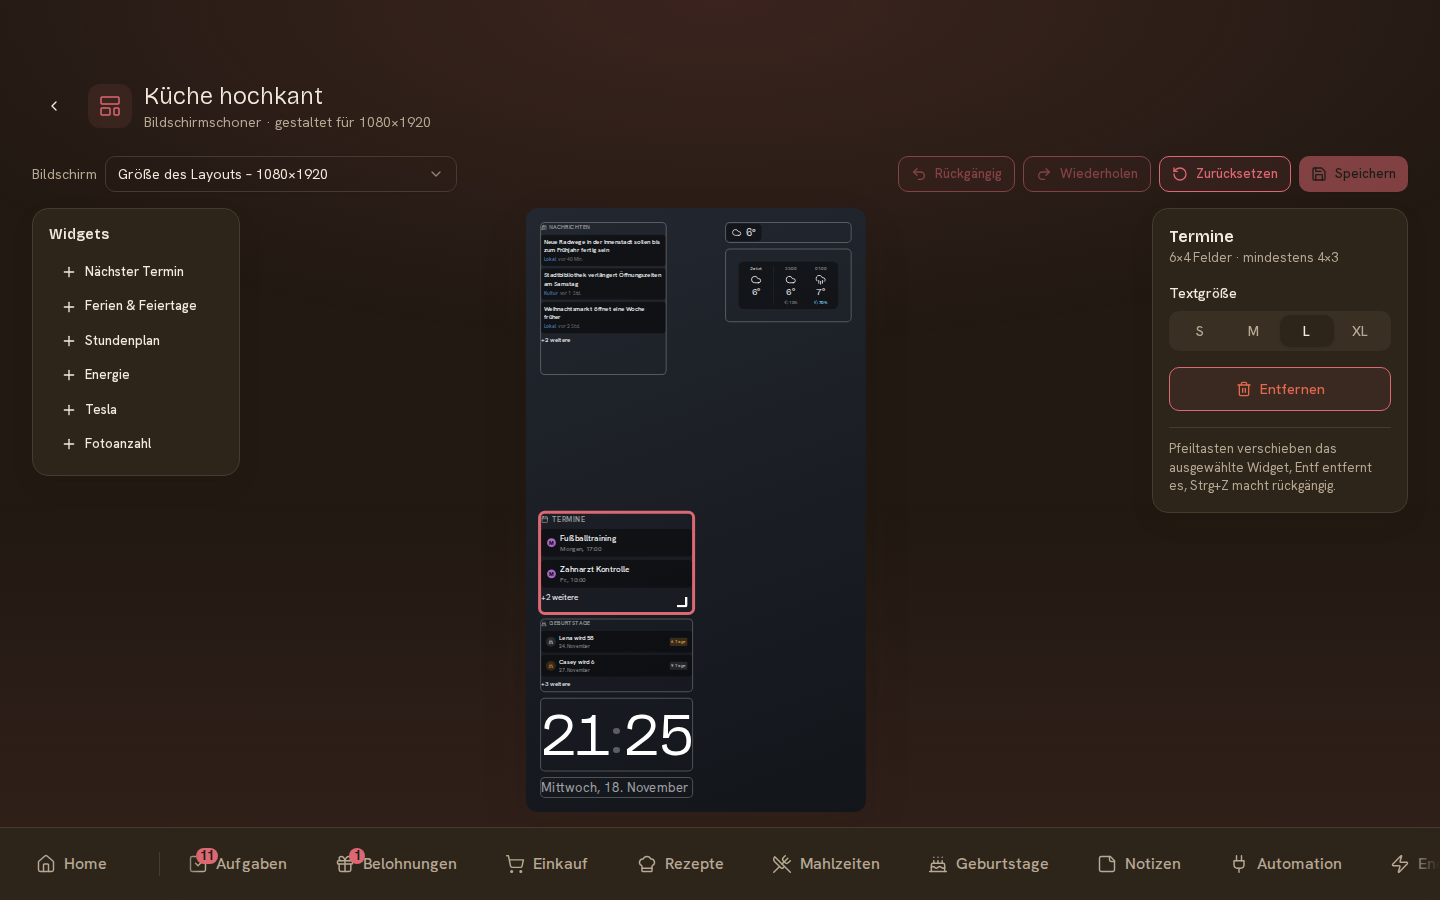
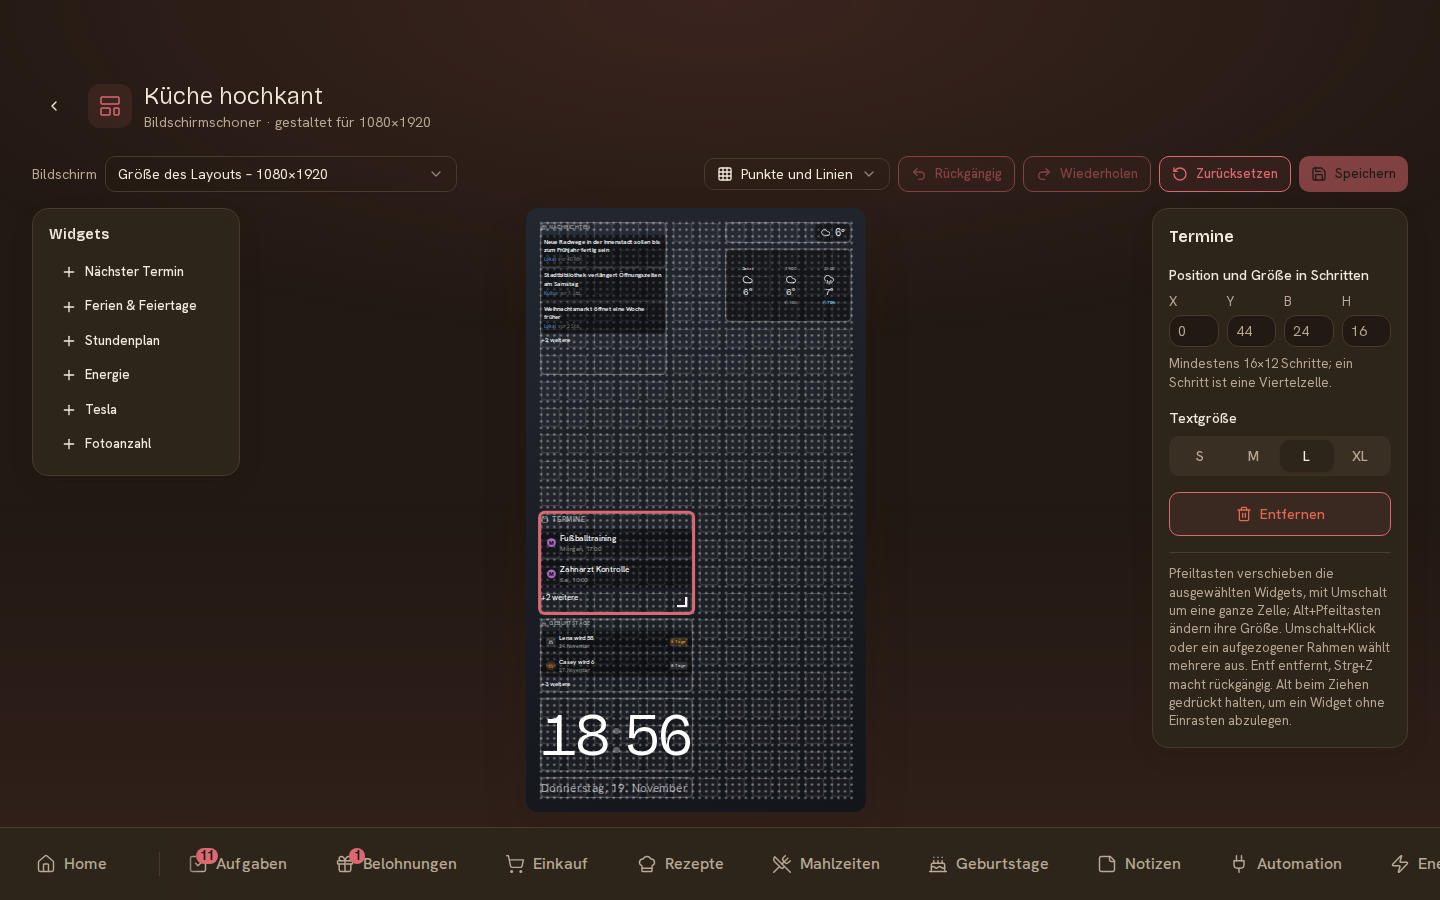
docs(wiki): new layout editor screenshots; energy and Tesla cards

diff --git a/docs/wiki/screenshots/playwright/12-layouts.kiosk.spec.ts b/docs/wiki/screenshots/playwright/12-layouts.kiosk.spec.ts
@@ -304,6 +304,24 @@ test("editor → layouts-editor.png", async ({ browser }) => {
   await page.context().close();
 });
 
+test("editor, three boxes selected → layouts-editor-arrange.png", async ({ browser }) => {
+  const page = await open(browser, laptop, `/settings/layouts/${kitchenLayout}`, DESK);
+  await expect(page.getByTestId("editor-canvas")).toBeVisible({ timeout: 60_000 });
+  await waitForReady(page);
+  // The grid as dots (the default, but a browser may remember another choice).
+  await page.getByTestId("editor-grid-display").click();
+  await page.getByTestId("editor-grid-display-dots").click();
+  // Shift+click adds a box to the selection, as a parent would pick them.
+  await page.locator("[data-editor-item=news]").click();
+  await page.locator("[data-editor-item=weatherNow]").click({ modifiers: ["Shift"] });
+  await page.locator("[data-editor-item=forecast]").click({ modifiers: ["Shift"] });
+  await expect(page.getByTestId("inspector-arrange")).toBeVisible();
+  await page.mouse.move(0, 0);
+  await page.waitForTimeout(1500);
+  await snap(page, "layouts-editor-arrange");
+  await page.context().close();
+});
+
 test("Settings → Layouts → settings-layouts.png", async ({ browser }) => {
   const page = await open(browser, laptop, "/settings/layouts", DESK);
   await expect(page.getByTestId("layouts-list")).toHaveAttribute("aria-busy", "false", { timeout: 60_000 });

diff --git a/docs/wiki/Layouts.md b/docs/wiki/Layouts.md
@@ -41,6 +41,8 @@ Unsaved changes survive the settings PIN locking in the middle of an edit. If so
 
 ### Tools
 
+![The layout editor with three boxes selected (news, weather now and the forecast): the grid shown as dots, and the inspector's Arrange buttons for aligning, distributing and matching sizes](images/layouts-editor-arrange.png)
+
 - **Grid** — the toolbar shows it as dots and lines, as lines, or not at all; the choice is remembered in this browser.
 - **Guides** — while you drag or resize, a box snaps within one step of another box's edge or centre, or of the screen's centre, and a line shows what it lined up with. Hold Alt (Option) while dragging to drop exactly where you let go.
 - **Several boxes** — Shift+click adds to the selection, or drag a frame on empty canvas. With several selected you can align left, right, top, bottom or centre, distribute horizontally or vertically (the outermost boxes stay), or give them the same width or height (as the first selected). Delete removes all of them.
@@ -63,7 +65,7 @@ After an update to Kinboard, reload screens and editors that were open: an edito
 
 - **Lists** (events, birthdays, holidays, news, lessons) show as many whole entries as fit and end with "+3 more" for the rest. A taller box shows more entries; the text stays at its size.
 - **Single values** (clock, date, next event, weather now, photo count) grow to fill their box.
-- **The forecast** shows as many forecast slots as the box is wide enough for. **Energy** and **Tesla** are drawn at one size, centred in their box.
+- **The forecast** shows as many forecast slots as the box is wide enough for. **Energy** and **Tesla** can be as small as half a cell high: in a flat box their figures sit side by side, otherwise they are stacked. They use the box's text size and get smaller only when that does not fit.
 
 Text sizes follow the screen's short side, so a layout looks the same on every screen of its shape.
 
